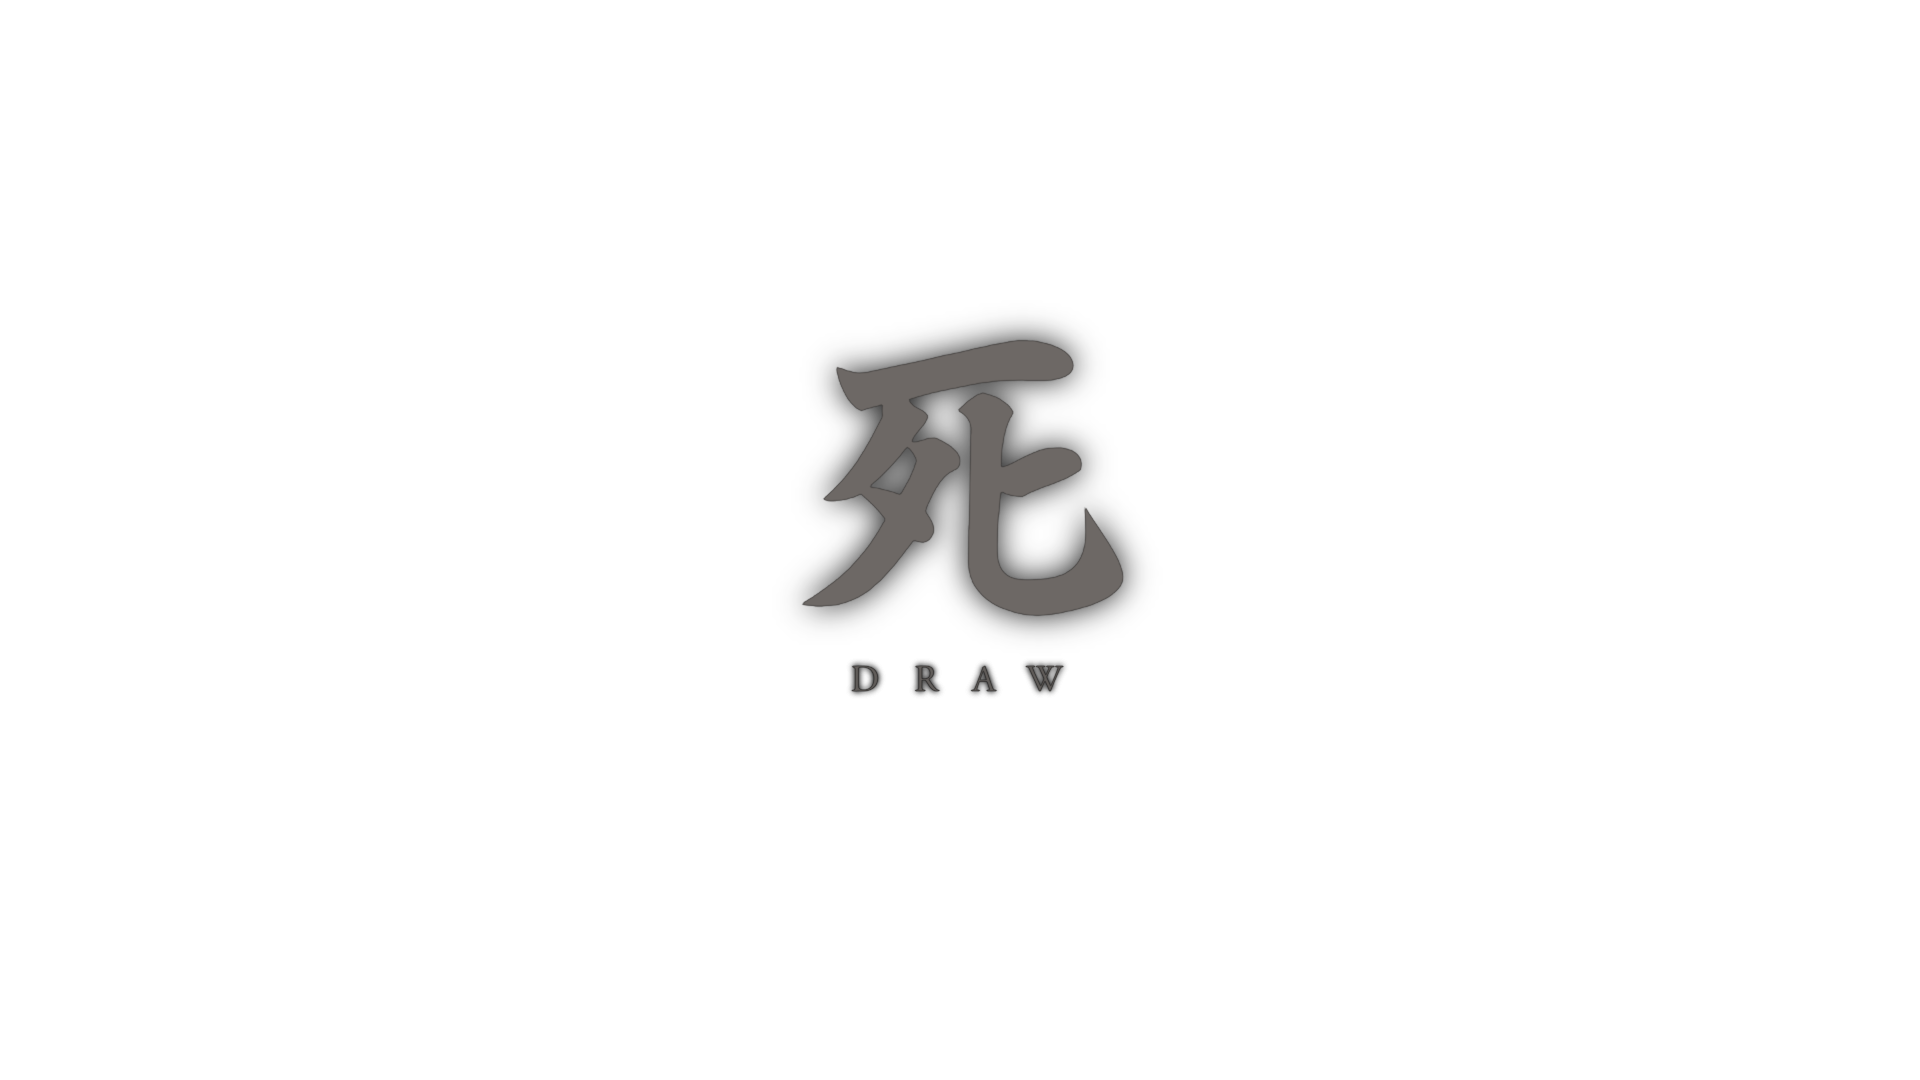
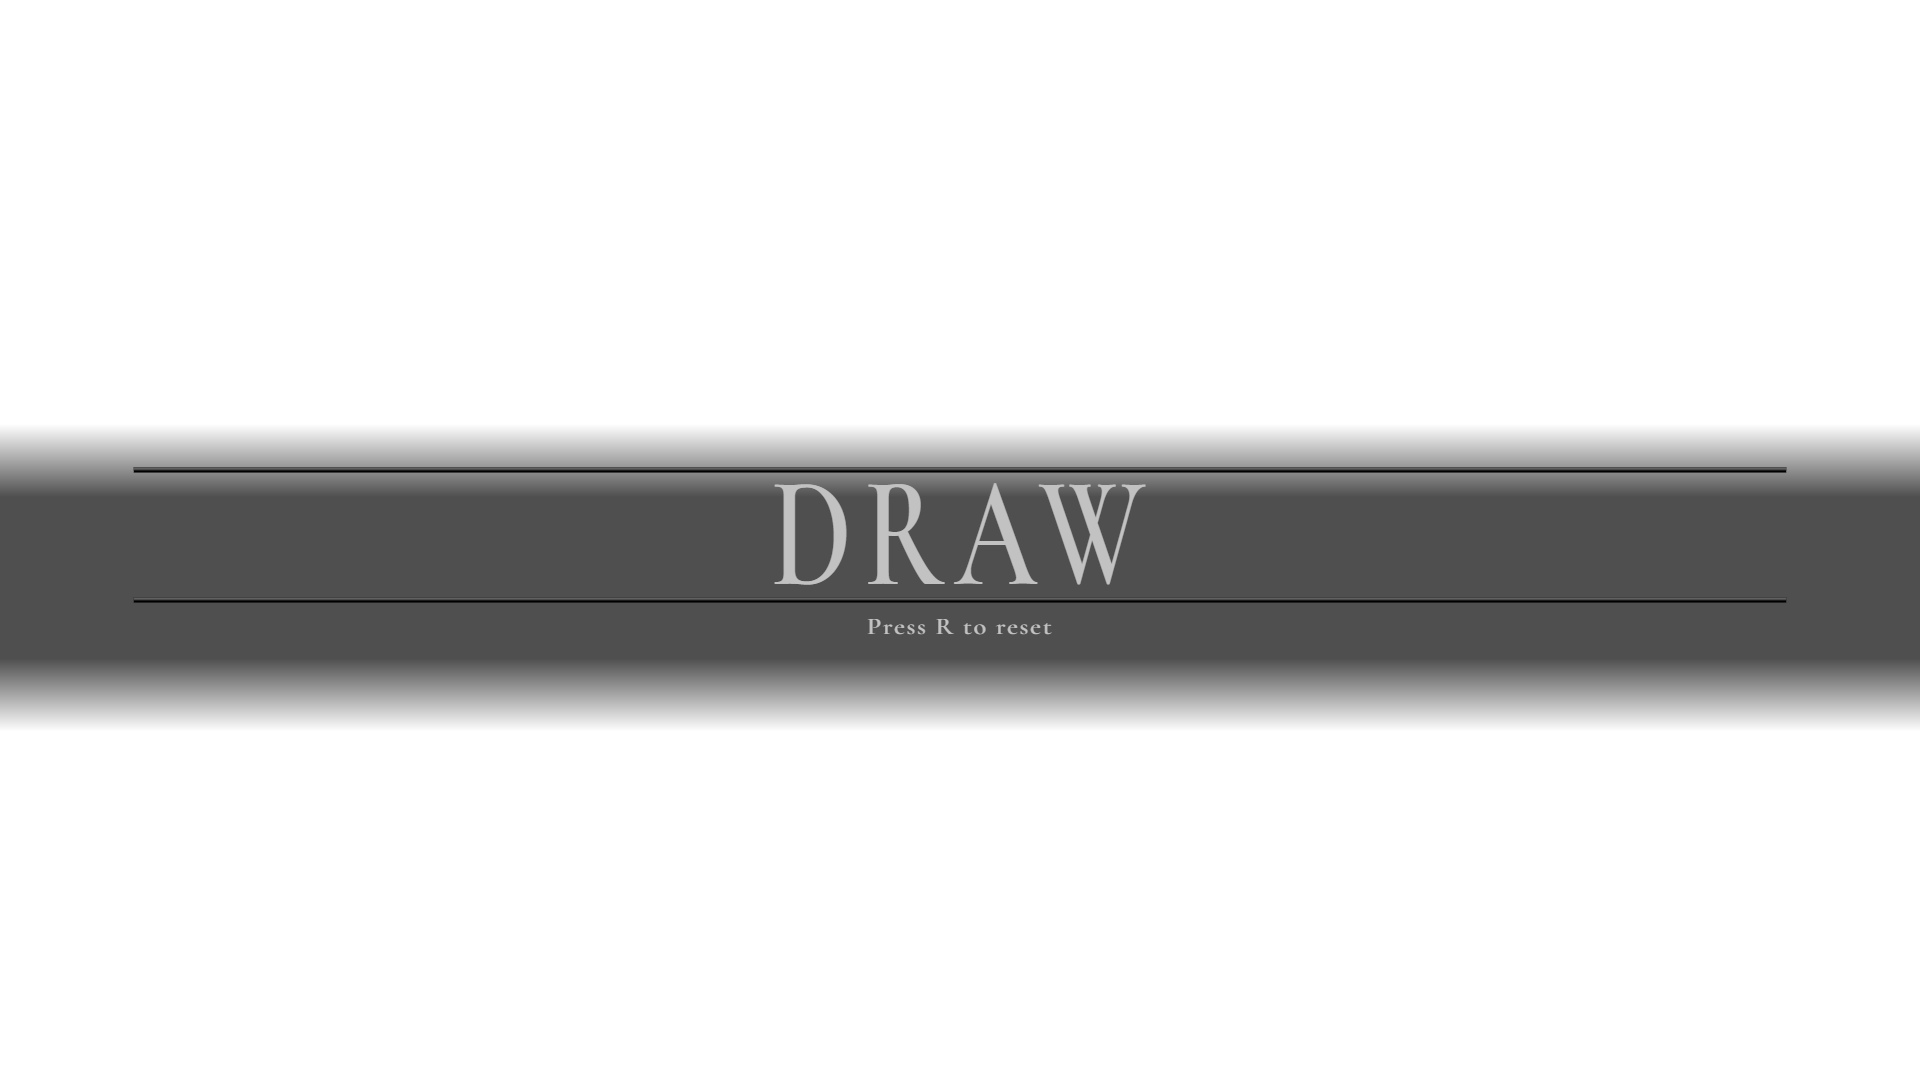
Fixed spawn location, changed end screens

Changed region(s): [[0.0, 0.3056, 1.0, 0.6722]]

diff --git a/AnishCS529Engine/AnishCS529Engine/src/TankBattle.cpp b/AnishCS529Engine/AnishCS529Engine/src/TankBattle.cpp
@@ -125,14 +125,6 @@ int main() {
   pBullet3->setOwner(protag)->setLocalPosition(Vector3(-100.0f, 0.0f, 0.0f));
   mainSceneGraph.addNode(pBullet3);
   pBullets.push_back(pBullet3);
-  auto pBullet4 = createBullet("pBullet4", mainRenderer, camera, Vector3(0.25f, 0.25f, 1.0f));
-  pBullet4->setOwner(protag)->setLocalPosition(Vector3(-100.0f, 0.0f, 0.0f));
-  mainSceneGraph.addNode(pBullet4);
-  pBullets.push_back(pBullet4);
-  auto pBullet5 = createBullet("pBullet5", mainRenderer, camera, Vector3(0.25f, 0.25f, 1.0f));
-  pBullet5->setOwner(protag)->setLocalPosition(Vector3(-100.0f, 0.0f, 0.0f));
-  mainSceneGraph.addNode(pBullet5);
-  pBullets.push_back(pBullet5);
 
   /* Enemy bullets */
   std::vector<std::shared_ptr<Bullet>> eBullets;
@@ -149,14 +141,6 @@ int main() {
   eBullet3->setOwner(enemy)->setLocalPosition(Vector3(-100.0f, 0.0f, 0.0f));
   mainSceneGraph.addNode(eBullet3);
   eBullets.push_back(eBullet3);
-  auto eBullet4 = createBullet("eBullet4", mainRenderer, camera, Vector3(1.0f, 0.25f, 0.25f));
-  eBullet4->setOwner(enemy)->setLocalPosition(Vector3(-100.0f, 0.0f, 0.0f));
-  mainSceneGraph.addNode(eBullet4);
-  eBullets.push_back(eBullet4);
-  auto eBullet5 = createBullet("eBullet5", mainRenderer, camera, Vector3(1.0f, 0.25f, 0.25f));
-  eBullet5->setOwner(enemy)->setLocalPosition(Vector3(-100.0f, 0.0f, 0.0f));
-  mainSceneGraph.addNode(eBullet5);
-  eBullets.push_back(eBullet5);
 
   /* Setting up ability to shoot */
   protag->addComponent<Shoot>()
@@ -173,10 +157,6 @@ int main() {
   pBullet2Hit.setCallback(onBulletHit);
   CollisionListener pBullet3Hit(pBullet3);
   pBullet3Hit.setCallback(onBulletHit);
-  CollisionListener pBullet4Hit(pBullet4);
-  pBullet4Hit.setCallback(onBulletHit);
-  CollisionListener pBullet5Hit(pBullet5);
-  pBullet5Hit.setCallback(onBulletHit);
 
   CollisionListener eBullet1Hit(eBullet1);
   eBullet1Hit.setCallback(onBulletHit);
@@ -184,10 +164,6 @@ int main() {
   eBullet2Hit.setCallback(onBulletHit);
   CollisionListener eBullet3Hit(eBullet3);
   eBullet3Hit.setCallback(onBulletHit);
-  CollisionListener eBullet4Hit(eBullet4);
-  eBullet4Hit.setCallback(onBulletHit);
-  CollisionListener eBullet5Hit(eBullet5);
-  eBullet5Hit.setCallback(onBulletHit);
 
   CollisionListener protagHit(protag);
   protagHit.setCallback(onTankHit);
@@ -199,20 +175,20 @@ int main() {
   auto p1WinScreen = std::make_shared<GameObject>("p1Win");
   p1WinScreen->addComponent<Render2D>()
     ->setRenderer(mainRenderer)->setCamera(camera)
-    ->setMaterial(createTextureMaterial("media/Player2Died.png"))
+    ->setMaterial(createTextureMaterial("media/Player1Wins.png"))
     ->setMesh(createSquareMesh("p1Win"));
   p1WinScreen->setLocalPosition(Vector3(0.0f, 0.0f, 0.0f))
-    ->setLocalScaling(Vector3(12.0f, 8.0f, 1.0f));
+    ->setLocalScaling(Vector3(15.0f, 10.0f, 1.0f));
   p1WinScreen->disable();
   mainSceneGraph.addNode(p1WinScreen);
 
   auto p2WinScreen = std::make_shared<GameObject>("p2Win");
   p2WinScreen->addComponent<Render2D>()
     ->setRenderer(mainRenderer)->setCamera(camera)
-    ->setMaterial(createTextureMaterial("media/Player1Died.png"))
+    ->setMaterial(createTextureMaterial("media/Player2Wins.png"))
     ->setMesh(createSquareMesh("p2Win"));
   p2WinScreen->setLocalPosition(Vector3(0.0f, 0.0f, 0.0f))
-    ->setLocalScaling(Vector3(12.0f, 8.0f, 1.0f));
+    ->setLocalScaling(Vector3(15.0f, 10.0f, 1.0f));
   p2WinScreen->disable();
   mainSceneGraph.addNode(p2WinScreen);
 
@@ -222,7 +198,7 @@ int main() {
     ->setMaterial(createTextureMaterial("media/Draw.png"))
     ->setMesh(createSquareMesh("playerDraw"));
   playerDrawScreen->setLocalPosition(Vector3(0.0f, 0.0f, 0.0f))
-    ->setLocalScaling(Vector3(12.0f, 8.0f, 1.0f));
+    ->setLocalScaling(Vector3(15.0f, 10.0f, 1.0f));
   playerDrawScreen->disable();
   mainSceneGraph.addNode(playerDrawScreen);
 

diff --git a/AnishCS529Engine/AnishCS529Engine/src/Shoot.cpp b/AnishCS529Engine/AnishCS529Engine/src/Shoot.cpp
@@ -70,7 +70,7 @@ void Shoot::update(float deltaTime)
 
     bullet->setLocalPosition(
         bullet->getLocalScaling().reciprocal() * (
-          parent->getLocalPosition() + Vector3(offset, 0.0f, 0.0f)
+          (parent->getLocalScaling() * parent->getLocalPosition()) + Vector3(offset, 0.0f, 0.0f)
         )
       );
     bullet->findComponent<PhysicsBody>()
